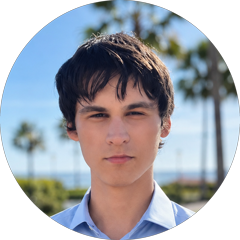
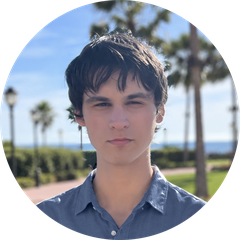
Staggered hero cards, team section without school framing, balanced bios, updated headshot, new social image

diff --git a/index.html b/index.html
@@ -66,7 +66,7 @@ nav .btn{padding:9px 18px;font-size:14px}
 .hero h1{font-size:clamp(34px,4.4vw,52px);line-height:1.05;margin-top:10px}
 .hero p.sub{color:var(--text2);font-size:20px;line-height:1.45;margin-top:22px;max-width:520px}
 .hero .ctas{display:flex;gap:12px;margin-top:34px;flex-wrap:wrap}
-.stack{position:relative;height:430px}
+.stack{position:relative;height:470px;width:100%;max-width:540px;margin-left:auto}
 .claim{position:absolute;width:min(430px,100%);padding:26px 28px}
 .claim .top{display:flex;justify-content:space-between;align-items:baseline}
 .claim .lbl{font-family:var(--mono);font-size:12.5px;letter-spacing:.08em;text-transform:uppercase;color:var(--text3)}
@@ -76,8 +76,8 @@ nav .btn{padding:9px 18px;font-size:14px}
 .claim .bill b{color:var(--ink);font-weight:600}
 .claim hr{border:0;border-top:1px solid var(--line);margin:16px 0}
 .claim .q{font-style:italic;font-size:17px}
-.claim.back{top:8px;right:28px;opacity:.9;transform:scale(.94);transform-origin:top right}
-.claim.front{top:118px;right:0}
+.claim.back{top:0;right:0;transform:rotate(3deg) scale(.95);transform-origin:top right}
+.claim.front{top:120px;left:0;transform:rotate(-2deg);box-shadow:0 0 50px rgba(186,214,214,.4),0 24px 60px -24px rgba(19,32,31,.28)}
 .flag{margin-top:16px;border-radius:14px;padding:13px 16px;background:var(--pine-t)}
 .flag .t{font-weight:600;color:var(--pine);font-size:15px}
 .flag .d{color:var(--text2);font-size:14.5px;margin-top:2px}
@@ -141,7 +141,8 @@ nav .btn{padding:9px 18px;font-size:14px}
 .person img{width:88px;height:88px;border-radius:50%;flex:none}
 .person h3{font-size:22px}
 .person .role{color:var(--pine);font-size:14.5px;font-weight:500;margin-top:2px}
-.person p{color:var(--text2);font-size:15.5px;margin-top:10px}
+.person p{color:var(--text2);font-size:15.5px;margin-top:8px}
+.person{align-items:center}
 
 /* contact */
 .contact{background:url(assets/bg.jpg) center/cover no-repeat;text-align:center;padding:120px 0}
@@ -162,7 +163,7 @@ footer .wrap{display:flex;justify-content:space-between;gap:24px;flex-wrap:wrap}
   .stats,.pv{grid-template-columns:1fr 1fr}
   .how{grid-template-columns:1fr 1fr}
   .steps{grid-template-columns:1fr 1fr}
-  .stack{height:400px;max-width:460px}
+  .stack{height:470px;max-width:540px;margin:0 auto}
 }
 @media (max-width:620px){
   section{padding:80px 0}
@@ -172,7 +173,7 @@ footer .wrap{display:flex;justify-content:space-between;gap:24px;flex-wrap:wrap}
   .stack{height:auto}
   .claim{padding:22px}
   .claim.back{display:none}
-  .claim.front{position:relative;top:0;width:100%}
+  .claim.front{position:relative;top:0;width:100%;transform:none}
   .claim .lbl{font-size:11px;letter-spacing:.06em}
   .claim .date{font-size:12px;white-space:nowrap}
   .person{flex-direction:column}
@@ -325,10 +326,10 @@ footer .wrap{display:flex;justify-content:space-between;gap:24px;flex-wrap:wrap}
 <section class="team" id="team">
   <div class="wrap">
     <div class="eyebrow rise">Team</div>
-    <h2 class="rise">Built by two students at the University of San Diego.</h2>
+    <h2 class="rise">The people behind ClearClaim.</h2>
     <div class="tgrid">
-      <div class="card person rise"><img src="assets/alphonse.png" alt="Alphonse van den Daele"><div><h3>Alphonse van den Daele</h3><div class="role">Co-founder · USD, Philosophy</div><p>Grew up inside this problem: both his parents are psychologists, and his father still does his own insurance paperwork. Leads the team and the conversations with practice owners.</p></div></div>
-      <div class="card person rise"><img src="assets/maxim.png" alt="Maxim Golubev"><div><h3>Maxim Golubev</h3><div class="role">Co-founder · USD, International Business and Business Analytics</div><p>Builds the platform and the AI behind it, including the working demo above.</p></div></div>
+      <div class="card person rise"><img src="assets/alphonse.png" alt="Alphonse van den Daele"><div><h3>Alphonse van den Daele</h3><p>Grew up inside this problem: both his parents are psychologists, and his father still does his own insurance paperwork. Leads our work with practice owners.</p></div></div>
+      <div class="card person rise"><img src="assets/maxim.png" alt="Maxim Golubev"><div><h3>Maxim Golubev</h3><p>Builds the platform and the AI behind it, from reading a practice’s notes to drafting the fix, including the working demo above.</p></div></div>
     </div>
   </div>
 </section>
